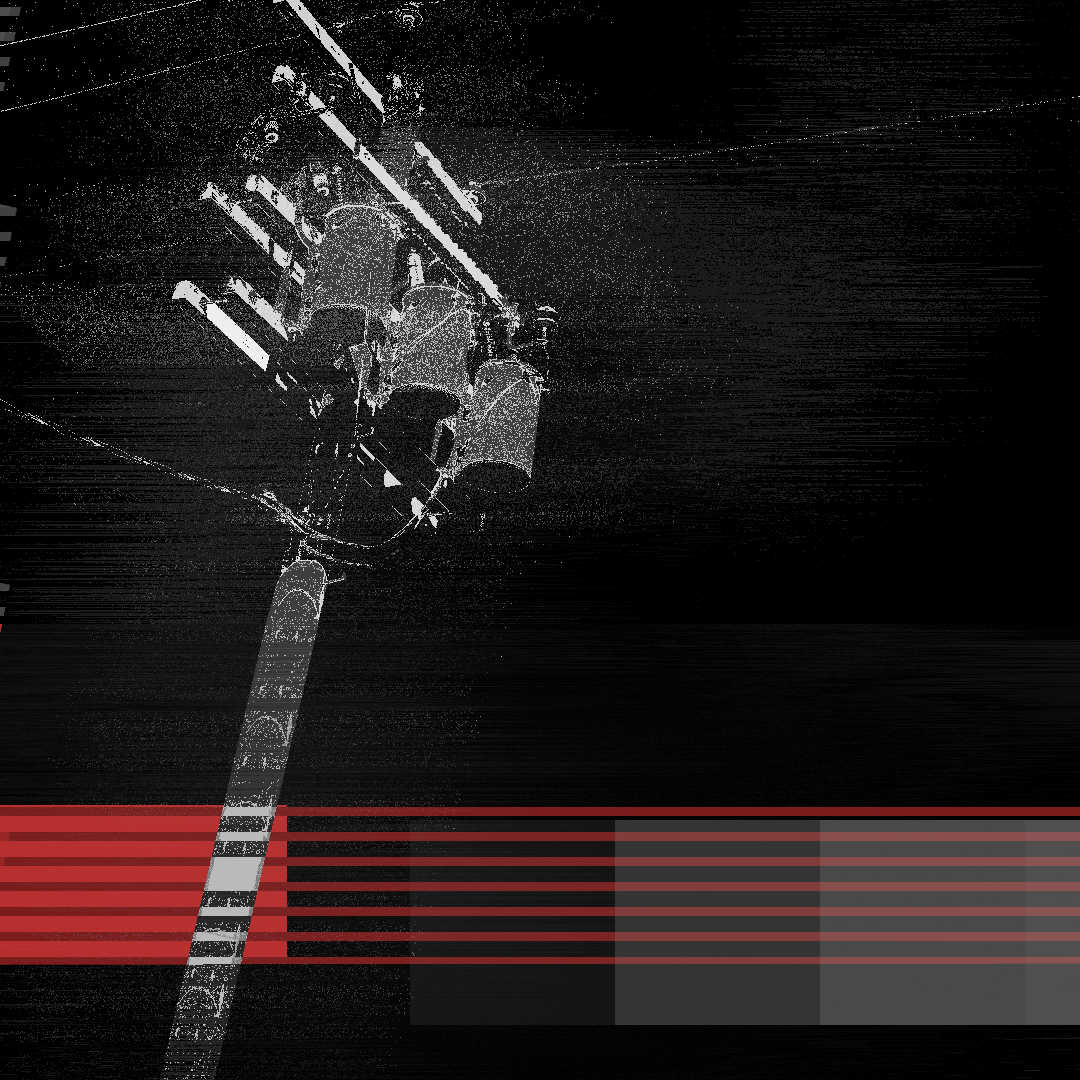
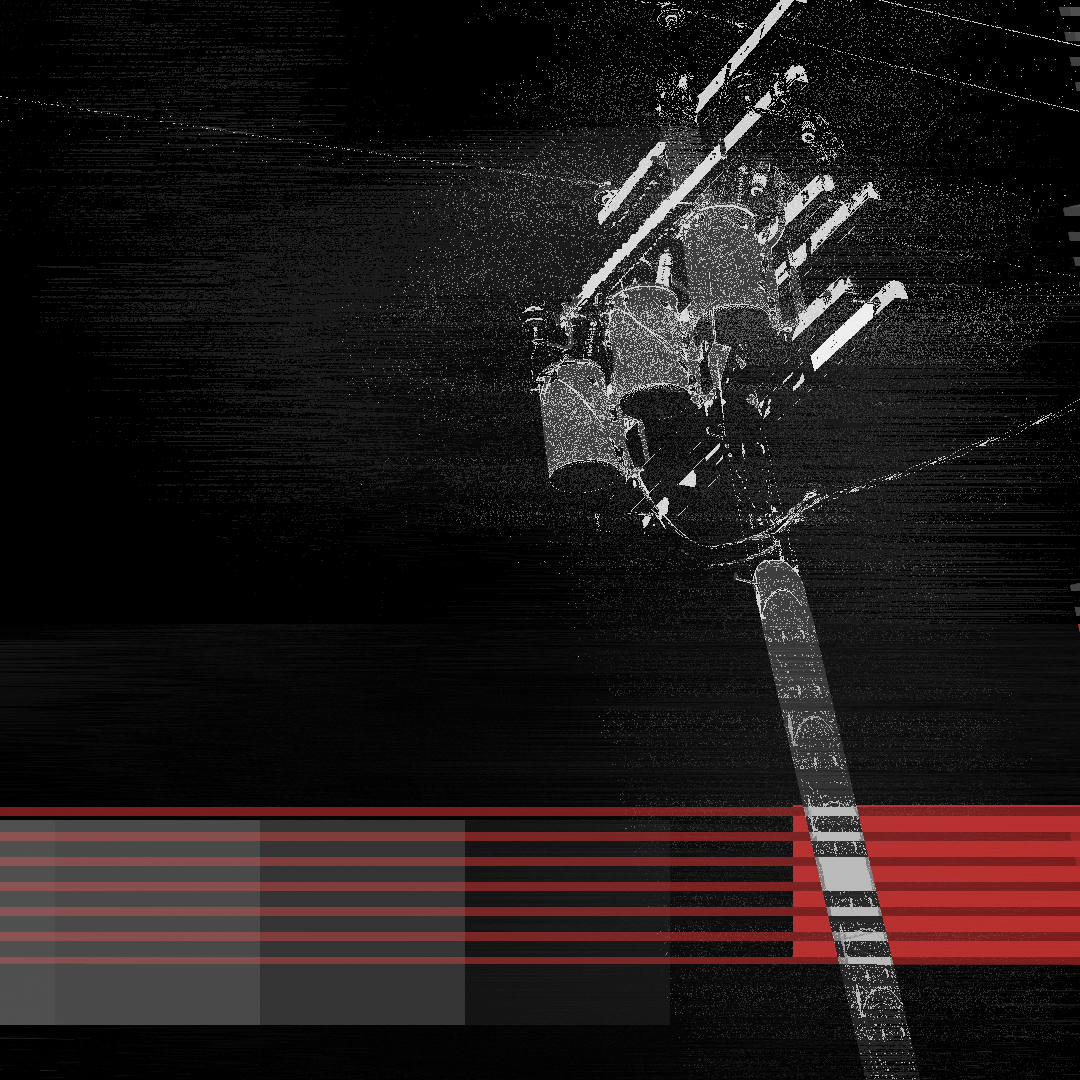
update bg

diff --git a/css/styles.css b/css/styles.css
@@ -1,7 +1,7 @@
   body {
     background-image: url('../images/site_bg4.png');  /* Specify the image path */
     background-size: cover;  /* Makes sure the image fits without stretching */
-    background-position: center;  /* Centers the image within the body */
+    background-position: center 0%;  /* Centers horizontally and positions 60% down vertically */
     background-repeat: no-repeat;  /* Prevents the image from repeating */
     background-attachment: fixed;  /* Fixes the background image in place when scrolling */
     font-family: 'Space Mono', monospace;

diff --git a/index.html b/index.html
@@ -25,7 +25,7 @@
         <h2 data-value="KEEFE" data-url="artist_one_social"></h2>
     </a>
     <a href="#" class="link" data-url="artist_three_social" target="_blank">
-        <h2 data-value="MIKE_EXT" data-url="artist_three_social"></h2>
+        <h2 data-value="EXTERN" data-url="artist_three_social"></h2>
     </a>
     <a href="#" class="link" data-url="calendar_link" target="_blank">
         <h3 data-value="SATURDAY - 10/18/2025" data-url="calendar_link"></h3>
